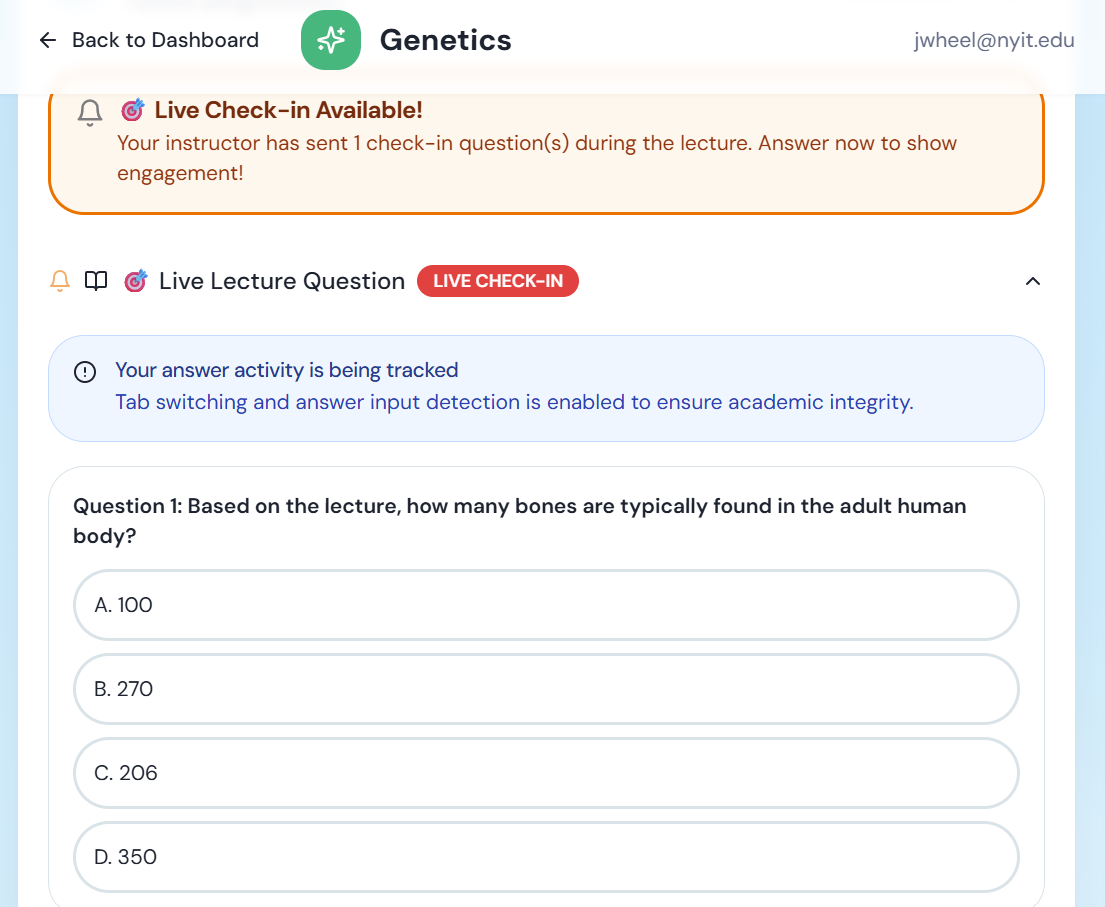
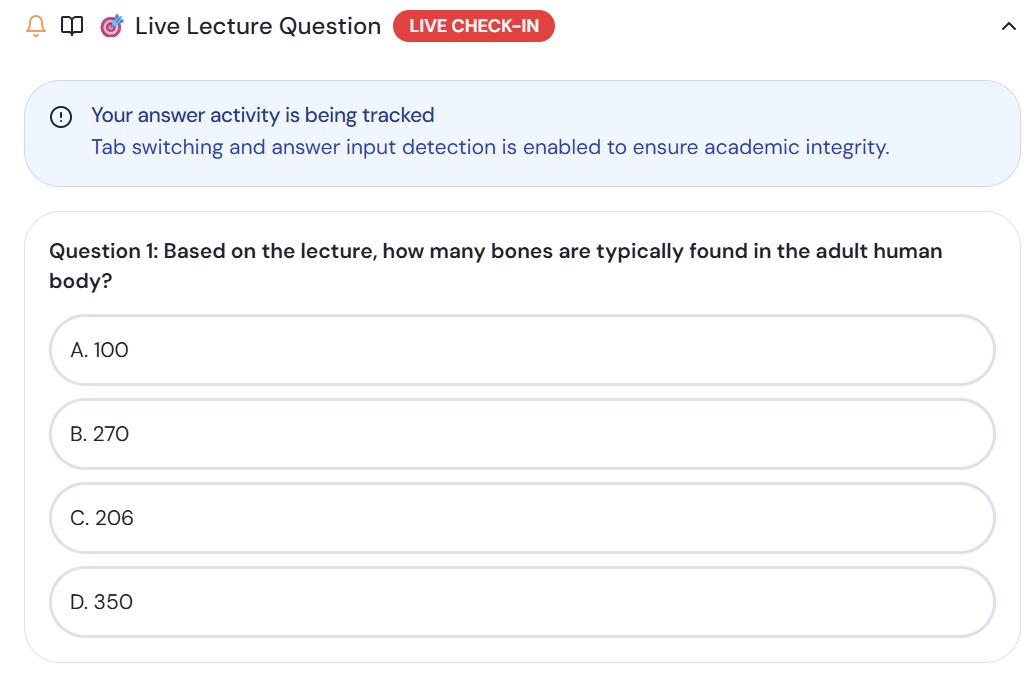
Changes

diff --git a/src/pages/Index.tsx b/src/pages/Index.tsx
@@ -170,22 +170,16 @@ const Index = () => {
                   />
                 </div>
                 
-                {/* Floating student phone mockup */}
-                <div className="absolute -bottom-8 -left-8 w-36 md:w-48 animate-float">
-                  {/* Phone frame */}
-                  <div className="relative bg-foreground rounded-[2rem] p-2 shadow-2xl">
-                    {/* Phone notch */}
-                    <div className="absolute top-0 left-1/2 -translate-x-1/2 w-20 h-6 bg-foreground rounded-b-xl z-10" />
-                    {/* Phone screen */}
-                    <div className="rounded-[1.5rem] overflow-hidden bg-background">
-                      <img 
-                        src={mockupStudent} 
-                        alt="Student live check-in view" 
-                        className="w-full h-auto"
-                      />
-                    </div>
-                    {/* Home indicator */}
-                    <div className="absolute bottom-1 left-1/2 -translate-x-1/2 w-12 h-1 bg-muted-foreground/50 rounded-full" />
+                {/* Student live check-in card */}
+                <div className="absolute -bottom-12 -left-16 md:-left-24 w-64 md:w-80 animate-float">
+                  <div className="relative bg-card rounded-2xl shadow-2xl border border-border/50 overflow-hidden">
+                    {/* Card header accent */}
+                    <div className="absolute top-0 left-0 right-0 h-1 bg-gradient-to-r from-primary via-accent to-primary" />
+                    <img 
+                      src={mockupStudent} 
+                      alt="Student live check-in view showing a real-time lecture question with multiple choice answers" 
+                      className="w-full h-auto"
+                    />
                   </div>
                 </div>
 
